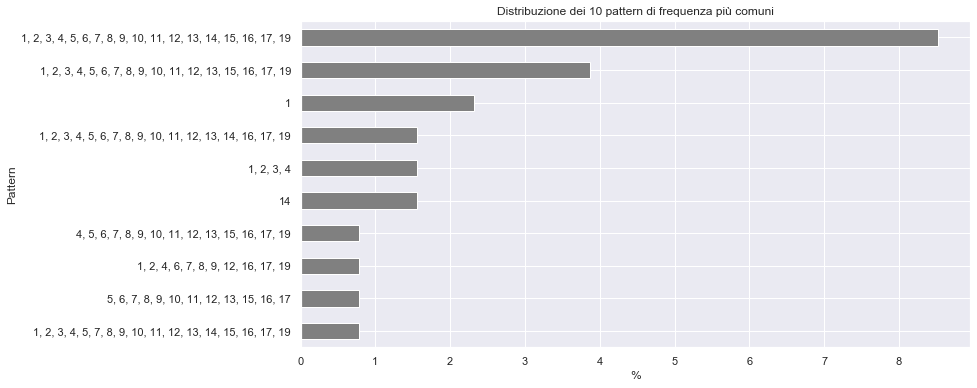
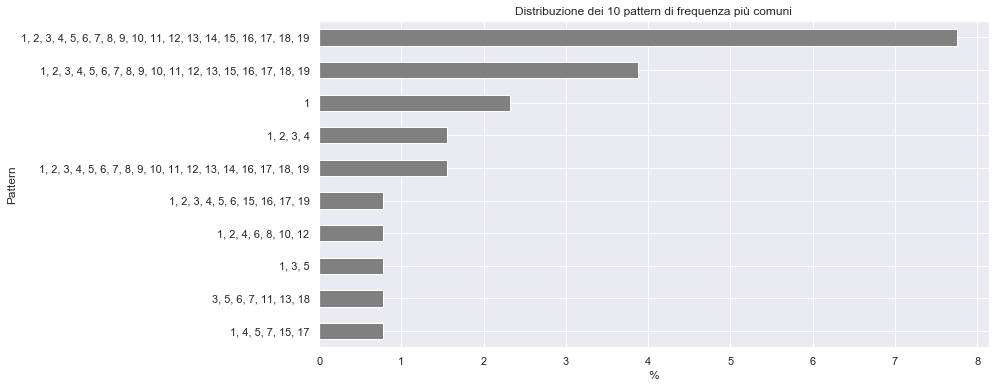
Last lecture

diff --git a/sito/frequenze.md b/sito/frequenze.md
@@ -8,7 +8,7 @@ Questa pagina contiene una analisi *aggregata* delle informazioni riguardanti la
 
 Il primo grafico riporta il numero assoluto di studenti presenti 
 per ciascuna lezione che si è svolta alla data odierna, in media
-sono stati presenti **76.72** (σ=15.01) studenti.
+sono stati presenti **76.05** (σ=14.88) studenti.
 
 
 
@@ -46,15 +46,6 @@ Risulta interessante *classificare* i pattern di presenza, cercando di dedurre d
 
 Tale classificazione è evidentemente arbitraria, ma offre nondimeno una ragionevole interpretazione dei dati raccolti. Il grafico seguente mostra le frequenze dei vari tipi di studenti.
 
-    /Users/santini/.local/share/dir-venv/f9ff2d2596abdb66cb97e5ab34e93dbb-drafts/lib/python3.7/site-packages/ipykernel_launcher.py:5: FutureWarning: 
-    Passing list-likes to .loc or [] with any missing label will raise
-    KeyError in the future, you can use .reindex() as an alternative.
-    
-    See the documentation here:
-    https://pandas.pydata.org/pandas-docs/stable/user_guide/indexing.html#deprecate-loc-reindex-listlike
-      """
 
-
-
-![png](frequenze_files/frequenze_15_1.png)
+![png](frequenze_files/frequenze_15_0.png)
 
